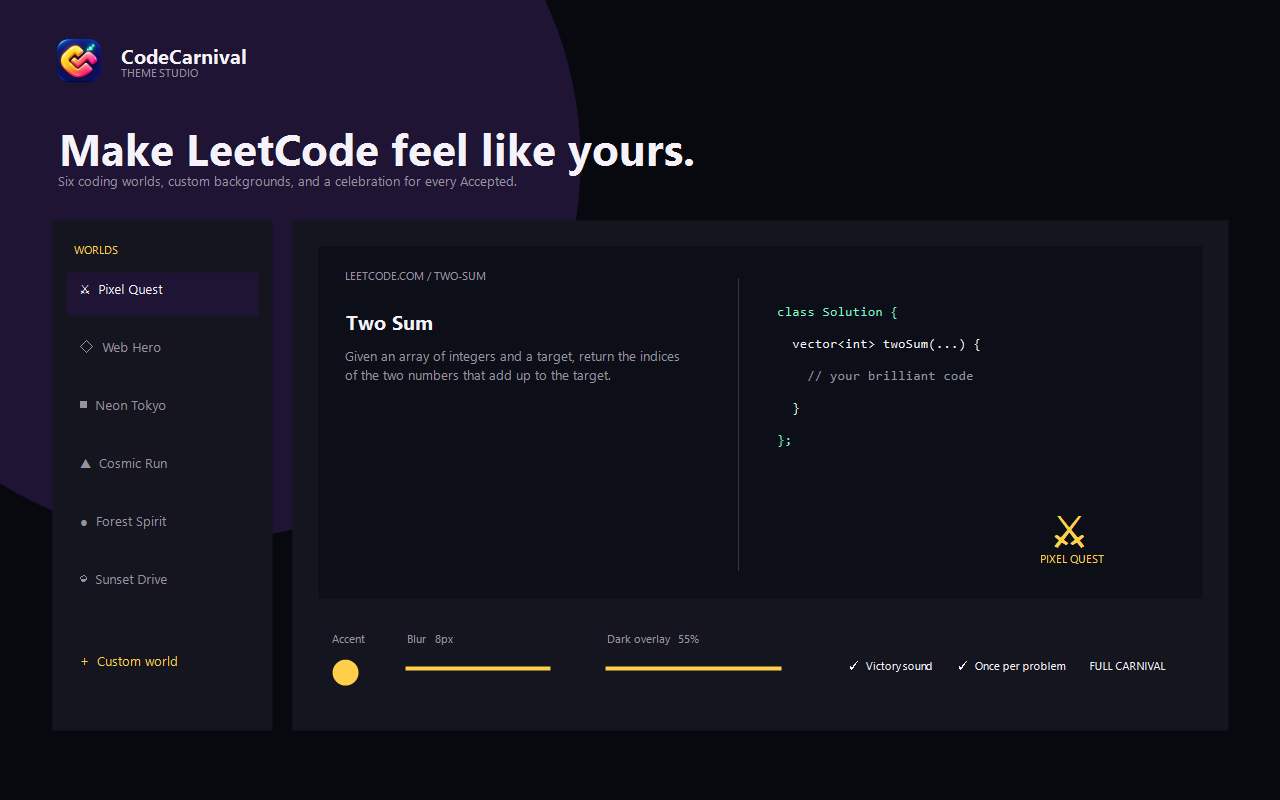
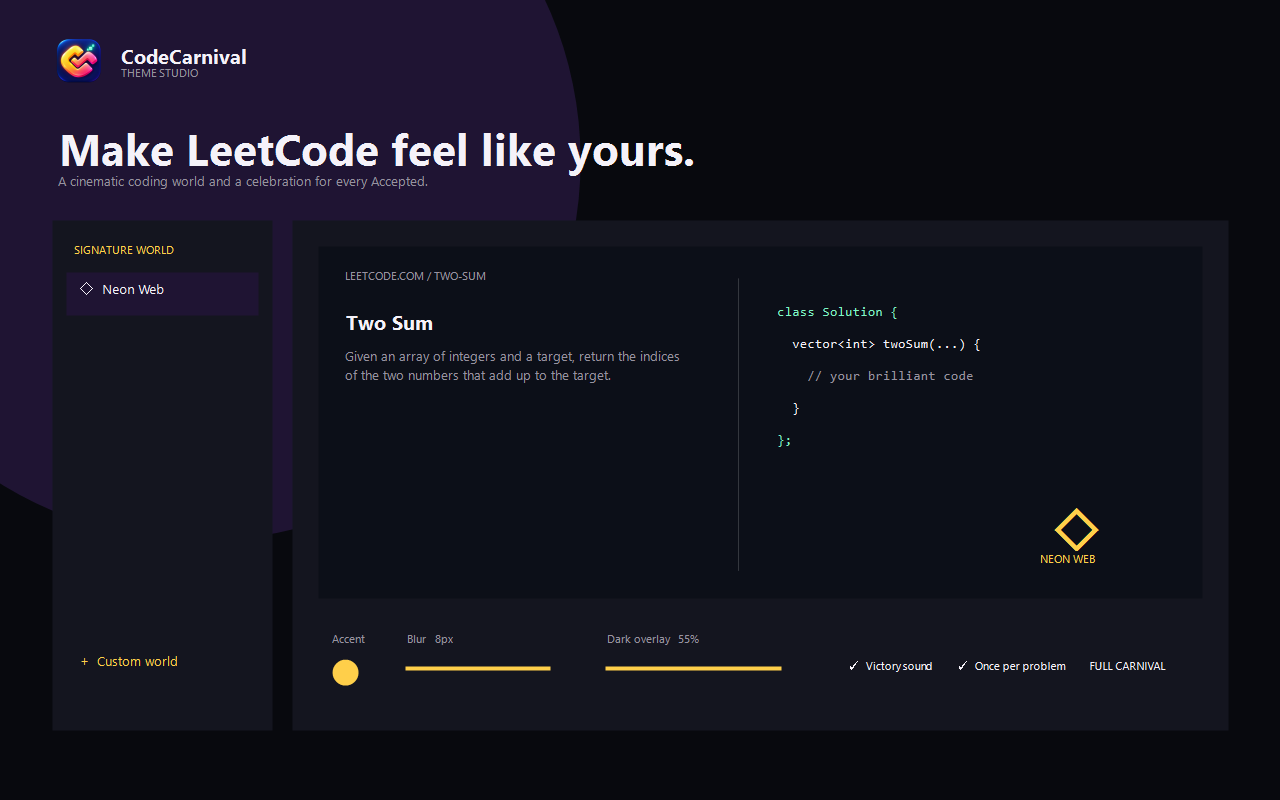
fix: rebuild themes around Neon Web glass engine

diff --git a/extension/content.css b/extension/content.css
@@ -1,36 +1,42 @@
 :root {
-  --cc-accent: #ffcf4a;
-  --cc-accent-2: #7cf7c5;
-  --cc-surface: rgba(14, 12, 28, .76);
-  --cc-border: rgba(255, 255, 255, .12);
-  --cc-blur: 8px;
-  --cc-overlay: .55;
+  --cc-accent: #ff304f;
+  --cc-accent-2: #29b6ff;
+  --cc-surface: rgba(4, 9, 20, .64);
+  --cc-border: rgba(77, 184, 255, .2);
+  --cc-blur: 2px;
+  --cc-overlay: .42;
 }
 
-html.cc-enabled.cc-problem-page body { background: #080811 !important; }
-html.cc-enabled.cc-problem-page body::before {
-  content: "";
+html.cc-enabled.cc-problem-page body { background: #030711 !important; }
+#cc-backdrop {
   position: fixed;
-  z-index: -2;
+  z-index: 0;
   inset: 0;
-  background-image: var(--cc-background), radial-gradient(circle at 15% 10%, var(--cc-accent), transparent 35%), linear-gradient(135deg, #111427, #080811 65%);
+  display: none;
+  overflow: hidden;
+  pointer-events: none;
+  background-image: var(--cc-background);
   background-position: center;
   background-size: cover;
   filter: blur(var(--cc-blur));
   transform: scale(1.04);
 }
-html.cc-enabled.cc-problem-page body::after {
+#cc-backdrop::after {
   content: "";
-  position: fixed;
-  z-index: -1;
+  position: absolute;
   inset: 0;
-  pointer-events: none;
-  background: rgba(4, 5, 11, var(--cc-overlay));
+  background: linear-gradient(90deg, rgba(2, 5, 14, calc(var(--cc-overlay) + .18)), rgba(3, 7, 17, var(--cc-overlay)) 58%, rgba(1, 4, 12, calc(var(--cc-overlay) - .1)));
 }
+html.cc-enabled.cc-problem-page #cc-backdrop { display: block; }
+html.cc-enabled.cc-problem-page body > div:not(#cc-backdrop) { position: relative; z-index: 1; background-color: transparent !important; }
 html.cc-enabled.cc-problem-page [data-layout-path],
 html.cc-enabled.cc-problem-page [class*="bg-layer"],
 html.cc-enabled.cc-problem-page [class*="bg-fill"],
-html.cc-enabled.cc-problem-page [class*="bg-base"] { background-color: transparent !important; }
+html.cc-enabled.cc-problem-page [class*="bg-base"],
+html.cc-enabled.cc-problem-page .flexlayout__layout,
+html.cc-enabled.cc-problem-page .flexlayout__tabset,
+html.cc-enabled.cc-problem-page .flexlayout__tab,
+html.cc-enabled.cc-problem-page #qd-content { background-color: transparent !important; }
 html.cc-enabled.cc-problem-page [class*="rounded"],
 html.cc-enabled.cc-problem-page [class*="editor-container"] {
   border-color: var(--cc-border) !important;
@@ -38,9 +44,18 @@ html.cc-enabled.cc-problem-page [class*="editor-container"] {
 html.cc-enabled.cc-problem-page nav,
 html.cc-enabled.cc-problem-page header,
 html.cc-enabled.cc-problem-page [data-layout-path],
+html.cc-enabled.cc-problem-page .flexlayout__tabset,
 html.cc-enabled.cc-problem-page [class*="editor-container"] {
-  backdrop-filter: blur(14px);
+  background-color: var(--cc-surface) !important;
+  box-shadow: inset 0 0 0 1px var(--cc-border), 0 18px 50px rgba(0, 0, 0, .24);
+  backdrop-filter: blur(16px) saturate(125%);
 }
+html.cc-enabled.cc-problem-page .monaco-editor,
+html.cc-enabled.cc-problem-page .monaco-editor-background,
+html.cc-enabled.cc-problem-page .monaco-editor .margin { background-color: rgba(5, 9, 18, .72) !important; }
+html.cc-enabled.cc-problem-page [class*="split-view-view"] { background-color: transparent !important; }
+html.cc-enabled.cc-problem-page button[class*="bg-green"],
+html.cc-enabled.cc-problem-page [data-e2e-locator="console-submit-button"] { box-shadow: 0 0 22px color-mix(in srgb, var(--cc-accent-2) 55%, transparent); }
 
 #cc-celebration {
   position: fixed;
@@ -66,15 +81,14 @@ html.cc-enabled.cc-problem-page [class*="editor-container"] {
 .cc-web-line { position: absolute; width: 2px; height: 65vh; top: -20vh; background: linear-gradient(white, transparent); transform-origin: top; animation: cc-swing 2s ease-in-out infinite alternate; }
 .cc-effect-layer { position: absolute; inset: 0; overflow: hidden; pointer-events: none; }
 .cc-web-spoke { position: absolute; left: 50%; top: 50%; width: 1px; height: 150vmax; background: linear-gradient(transparent, #ffffff30, transparent); transform: translate(-50%, -50%) rotate(var(--turn)); }
-.cc-hero-swing { position: absolute; left: 50%; top: 8%; font-size: 48px; transform-origin: 50% -280px; animation: cc-hero-swing 2s cubic-bezier(.4,0,.2,1) infinite alternate; }
-.cc-pixel { position: absolute; left: var(--x); top: var(--y); width: 12px; height: 12px; background: var(--cc-accent); box-shadow: 12px 0 var(--cc-accent-2), 0 12px var(--cc-accent-2); animation: cc-pixel-pop 1.2s steps(4) var(--delay) infinite; }
-.cc-neon-grid { position: absolute; left: -20%; right: -20%; bottom: -45%; height: 80%; background-image: linear-gradient(#62f4ff55 1px, transparent 1px), linear-gradient(90deg, #62f4ff55 1px, transparent 1px); background-size: 60px 40px; transform: perspective(400px) rotateX(62deg); transform-origin: top; animation: cc-grid 1.4s linear infinite; }
-.cc-scanline { position: absolute; inset: -100% 0 auto; height: 30%; background: linear-gradient(transparent, #ff4fd833, transparent); animation: cc-scan 2.1s linear infinite; }
-.cc-star { position: absolute; left: var(--x); top: var(--y); width: 3px; height: 3px; border-radius: 50%; background: white; box-shadow: 0 0 10px 3px #48e5ff; animation: cc-twinkle .8s ease-in-out var(--delay) infinite alternate; }
-.cc-rocket-trail { position: absolute; left: -15%; bottom: 5%; font-size: 58px; filter: drop-shadow(-30px 30px 14px #48e5ff); animation: cc-launch 3.5s ease-in forwards; }
-.cc-leaf { position: absolute; left: var(--x); top: -10%; font-size: 27px; animation: cc-leaf-fall 3s ease-in var(--delay) infinite; }
-.cc-sun { position: absolute; left: 50%; top: 20%; width: 210px; height: 210px; margin-left: -105px; border-radius: 50%; background: linear-gradient(#ffd56b, #ff7b54); box-shadow: 0 0 90px #ff7b5488; animation: cc-sun-rise 1.4s ease-out both; }
-.cc-road { position: absolute; left: 50%; bottom: -20%; width: 24%; height: 70%; background: linear-gradient(90deg, transparent 48%, #ffd56b 48% 52%, transparent 52%), linear-gradient(#ffffff10, #ffffff02); clip-path: polygon(45% 0, 55% 0, 100% 100%, 0 100%); }
+.cc-web-dancer { position: absolute; left: 14%; bottom: 14%; width: 92px; height: 165px; filter: drop-shadow(0 0 24px #29b6ff99); animation: cc-dance-body .72s ease-in-out infinite alternate; }
+.cc-web-dancer i { position: absolute; display: block; }
+.cc-dancer-head { left: 27px; top: 0; width: 40px; height: 45px; border: 3px solid #29b6ff; border-radius: 48% 48% 42% 42%; background: linear-gradient(135deg, #ff304f, #8c102a); box-shadow: inset 0 0 0 5px #09142b; }
+.cc-dancer-head::before, .cc-dancer-head::after { content: ""; position: absolute; top: 13px; width: 9px; height: 14px; border-radius: 70% 20%; background: white; box-shadow: 0 0 9px #29b6ff; }.cc-dancer-head::before { left: 7px; transform: rotate(16deg); }.cc-dancer-head::after { right: 7px; transform: rotate(-16deg) scaleX(-1); }
+.cc-dancer-body { left: 23px; top: 42px; width: 48px; height: 65px; clip-path: polygon(18% 0, 82% 0, 100% 78%, 70% 100%, 30% 100%, 0 78%); background: linear-gradient(100deg, #0b2d68 0 30%, #ff304f 32% 68%, #0b2d68 70%); }
+.cc-dancer-arm, .cc-dancer-leg { width: 18px; border-radius: 12px; transform-origin: 9px 8px; background: linear-gradient(#ff304f, #123f88); }
+.cc-dancer-arm { top: 49px; height: 72px; }.cc-dancer-arm.left { left: 15px; animation: cc-arm-left .72s ease-in-out infinite alternate; }.cc-dancer-arm.right { right: 13px; animation: cc-arm-right .72s ease-in-out infinite alternate; }
+.cc-dancer-leg { top: 98px; height: 70px; }.cc-dancer-leg.left { left: 28px; animation: cc-leg-left .72s ease-in-out infinite alternate; }.cc-dancer-leg.right { right: 25px; animation: cc-leg-right .72s ease-in-out infinite alternate; }
 .cc-custom-glow { position: absolute; inset: 20%; border-radius: 50%; background: var(--cc-accent); filter: blur(100px); opacity: .22; animation: cc-custom-pulse 1.5s ease-in-out infinite alternate; }
 
 @keyframes cc-fade-in { from { opacity: 0; } }
@@ -84,14 +98,11 @@ html.cc-enabled.cc-problem-page [class*="editor-container"] {
 @keyframes cc-rain { to { transform: translate3d(var(--drift), 120vh, 0) rotate(900deg); } }
 @keyframes cc-ring { 0% { opacity: .8; transform: scale(.2); } 100% { opacity: 0; transform: scale(6); } }
 @keyframes cc-swing { from { transform: rotate(-32deg); } to { transform: rotate(32deg); } }
-@keyframes cc-hero-swing { from { transform: rotate(-42deg) rotate(-20deg); } to { transform: rotate(42deg) rotate(20deg); } }
-@keyframes cc-pixel-pop { 0%, 100% { opacity: .2; transform: scale(.5) rotate(0); } 50% { opacity: 1; transform: scale(1.3) rotate(90deg); } }
-@keyframes cc-grid { to { background-position: 0 40px; } }
-@keyframes cc-scan { to { transform: translateY(700%); } }
-@keyframes cc-twinkle { to { opacity: .25; transform: scale(.5); } }
-@keyframes cc-launch { from { transform: translate(0, 0) rotate(-35deg); } to { transform: translate(125vw, -105vh) rotate(-35deg); } }
-@keyframes cc-leaf-fall { to { transform: translate(80px, 115vh) rotate(540deg); } }
-@keyframes cc-sun-rise { from { transform: translateY(220px); opacity: 0; } }
+@keyframes cc-dance-body { from { transform: translateY(0) rotate(-7deg) scale(1); } to { transform: translateY(-18px) rotate(7deg) scale(1.05); } }
+@keyframes cc-arm-left { from { transform: rotate(52deg); } to { transform: rotate(145deg); } }
+@keyframes cc-arm-right { from { transform: rotate(-52deg); } to { transform: rotate(-145deg); } }
+@keyframes cc-leg-left { from { transform: rotate(18deg); } to { transform: rotate(48deg); } }
+@keyframes cc-leg-right { from { transform: rotate(-45deg); } to { transform: rotate(-12deg); } }
 @keyframes cc-custom-pulse { to { transform: scale(1.4); opacity: .35; } }
 
 @media (prefers-reduced-motion: reduce) {

diff --git a/extension/content.js b/extension/content.js
@@ -1,14 +1,9 @@
 const CC_THEMES = {
-  "web-hero": { emoji: "🕸", title: "MISSION COMPLETE", eyebrow: "Web Hero", note: "Another challenge caught in your web.", colors: ["#ef3340", "#42a5ff"], effect: "web" },
-  "pixel-quest": { emoji: "⚔", title: "STAGE CLEAR!", eyebrow: "Pixel Quest", note: "+100 XP · The next level awaits", colors: ["#ffcf4a", "#7cf7c5"], effect: "pixel" },
-  "neon-tokyo": { emoji: "🌃", title: "SYSTEM CLEARED", eyebrow: "Neon Tokyo", note: "Run complete. Skill level rising.", colors: ["#ff4fd8", "#62f4ff"], effect: "neon" },
-  "cosmic-run": { emoji: "🚀", title: "LIFTOFF!", eyebrow: "Cosmic Run", note: "Solution accepted. New orbit unlocked.", colors: ["#a675ff", "#48e5ff"], effect: "space" },
-  "forest-spirit": { emoji: "🍃", title: "QUEST COMPLETE", eyebrow: "Forest Spirit", note: "A calm mind finds the path.", colors: ["#80ed99", "#d8f3dc"], effect: "leaves" },
-  "sunset-drive": { emoji: "🌅", title: "SMOOTH SOLVE", eyebrow: "Sunset Drive", note: "Cruising into the next challenge.", colors: ["#ff7b54", "#ffd56b"], effect: "sunset" },
+  "neon-web": { emoji: "🕸", title: "CITY SAVED!", eyebrow: "Neon Web", note: "Another bug caught. Another mission complete.", colors: ["#ff304f", "#29b6ff"], effect: "web" },
   custom: { emoji: "✨", title: "YOU DID IT!", eyebrow: "Custom World", note: "Your code. Your world. Your victory.", colors: ["#f8c451", "#ff7b9c"], effect: "custom" }
 };
 
-const CC_DEFAULTS = { enabled: true, theme: "pixel-quest", accent: "#ffcf4a", blur: 8, overlay: 55, customBackground: "", sound: true, celebrateOnce: true, intensity: "full" };
+const CC_DEFAULTS = { enabled: true, theme: "neon-web", accent: "#ff304f", blur: 2, overlay: 42, customBackground: "", sound: true, celebrateOnce: true, intensity: "full" };
 let ccSettings = { ...CC_DEFAULTS };
 let lastAcceptedAt = 0;
 let acceptedVisible = false;
@@ -32,6 +27,10 @@ function isProblemPage() {
 }
 
 function applyTheme(settings) {
+  if (!CC_THEMES[settings.theme] && settings.theme !== "custom") {
+    settings = { ...settings, theme: "neon-web", accent: "#ff304f" };
+    chrome.storage.local.set(settings);
+  }
   ccSettings = settings;
   const root = document.documentElement;
   root.classList.toggle("cc-enabled", Boolean(settings.enabled));
@@ -41,19 +40,17 @@ function applyTheme(settings) {
   root.style.setProperty("--cc-accent-2", theme.colors[1]);
   root.style.setProperty("--cc-blur", `${settings.blur}px`);
   root.style.setProperty("--cc-overlay", String(settings.overlay / 100));
-  root.style.setProperty("--cc-background", settings.customBackground ? `url("${settings.customBackground}")` : defaultBackdrop(settings.theme));
+  const background = settings.customBackground || chrome.runtime.getURL("assets/neon-web-city.png");
+  root.style.setProperty("--cc-background", `url("${background}")`);
+  ensureBackdrop();
 }
 
-function defaultBackdrop(id) {
-  const patterns = {
-    "web-hero": "linear-gradient(125deg, #07142d 0%, #1e356b 42%, #7e1323 100%)",
-    "pixel-quest": "linear-gradient(135deg, #100d29 0%, #34205e 50%, #152f35 100%)",
-    "neon-tokyo": "linear-gradient(155deg, #090617 10%, #511359 55%, #052f47 100%)",
-    "cosmic-run": "radial-gradient(circle at 70% 20%, #553091 0%, #071426 42%, #02040b 100%)",
-    "forest-spirit": "linear-gradient(135deg, #06150e, #17472e 55%, #0e2620)",
-    "sunset-drive": "linear-gradient(160deg, #23113d, #8e335b 55%, #ff835e)"
-  };
-  return patterns[id] || patterns["pixel-quest"];
+function ensureBackdrop() {
+  if (document.querySelector("#cc-backdrop")) return;
+  const backdrop = document.createElement("div");
+  backdrop.id = "cc-backdrop";
+  backdrop.setAttribute("aria-hidden", "true");
+  document.documentElement.appendChild(backdrop);
 }
 
 function playVictorySound() {
@@ -129,21 +126,9 @@ function celebrate() {
 }
 
 function buildThemeEffect(host, effect) {
-  const count = ccSettings.intensity === "calm" ? 4 : 10;
   if (effect === "web") {
     for (let i = 0; i < 7; i++) host.insertAdjacentHTML("beforeend", `<i class="cc-web-spoke" style="--turn:${i * 25}deg"></i>`);
-    host.insertAdjacentHTML("beforeend", '<i class="cc-web-line"></i><b class="cc-hero-swing">🕷</b>');
-  } else if (effect === "pixel") {
-    for (let i = 0; i < count; i++) host.insertAdjacentHTML("beforeend", `<i class="cc-pixel" style="--x:${8 + Math.random() * 84}%;--y:${10 + Math.random() * 78}%;--delay:${Math.random()}s"></i>`);
-  } else if (effect === "neon") {
-    host.insertAdjacentHTML("beforeend", '<i class="cc-neon-grid"></i><i class="cc-scanline"></i>');
-  } else if (effect === "space") {
-    for (let i = 0; i < count * 2; i++) host.insertAdjacentHTML("beforeend", `<i class="cc-star" style="--x:${Math.random() * 100}%;--y:${Math.random() * 100}%;--delay:${Math.random() * 1.5}s"></i>`);
-    host.insertAdjacentHTML("beforeend", '<b class="cc-rocket-trail">🚀</b>');
-  } else if (effect === "leaves") {
-    for (let i = 0; i < count; i++) host.insertAdjacentHTML("beforeend", `<i class="cc-leaf" style="--x:${Math.random() * 100}%;--delay:${Math.random() * 2}s">🍃</i>`);
-  } else if (effect === "sunset") {
-    host.insertAdjacentHTML("beforeend", '<i class="cc-sun"></i><i class="cc-road"></i>');
+    host.insertAdjacentHTML("beforeend", '<i class="cc-web-line"></i><b class="cc-web-dancer"><i class="cc-dancer-head"></i><i class="cc-dancer-body"></i><i class="cc-dancer-arm left"></i><i class="cc-dancer-arm right"></i><i class="cc-dancer-leg left"></i><i class="cc-dancer-leg right"></i></b>');
   } else {
     host.insertAdjacentHTML("beforeend", '<i class="cc-custom-glow"></i>');
   }

diff --git a/website/styles.css b/website/styles.css
@@ -41,7 +41,7 @@ h1, h2, h3 { font-family: "Space Grotesk"; }
 .themes-section, .custom-section, .steps-section { padding: 100px 45px; border-top: 1px solid var(--line); }
 .section-heading { display: flex; justify-content: space-between; align-items: end; gap: 50px; }.section-heading h2, .custom-copy h2, .steps-section h2 { max-width: 650px; margin: 13px 0 0; font-size: clamp(35px, 4vw, 55px); line-height: 1.05; letter-spacing: -.045em; }.section-heading > p { max-width: 410px; color: var(--muted); font-size: 13px; line-height: 1.7; }
 .theme-stage { margin-top: 48px; padding: 15px; border: 1px solid #ffffff13; border-radius: 22px; background: #ffffff05; }
-.theme-tabs { display: grid; grid-template-columns: repeat(6, 1fr); gap: 6px; margin-bottom: 12px; }.theme-tabs button { padding: 12px 7px; color: #7d7985; border: 1px solid transparent; border-radius: 10px; background: transparent; cursor: pointer; font-size: 10px; }.theme-tabs i { display: block; margin-bottom: 6px; font-size: 19px; font-style: normal; }.theme-tabs button[aria-selected="true"] { color: white; border-color: #ffffff16; background: #ffffff0b; }
+.theme-tabs { display: grid; grid-template-columns: 1fr; gap: 6px; margin-bottom: 12px; }.theme-tabs button { padding: 12px 7px; color: #7d7985; border: 1px solid transparent; border-radius: 10px; background: transparent; cursor: pointer; font-size: 10px; }.theme-tabs i { display: inline-block; margin: 0 7px 0 0; font-size: 19px; font-style: normal; vertical-align: middle; }.theme-tabs button[aria-selected="true"] { color: white; border-color: #ffffff16; background: #ffffff0b; }
 .theme-preview { --primary: #ffcf4a; --secondary: #7cf7c5; --deep: #15102b; position: relative; overflow: hidden; display: grid; grid-template-columns: 1fr 1fr; align-items: center; min-height: 390px; padding: 45px; border-radius: 16px; background: radial-gradient(circle at 27% 50%, color-mix(in srgb, var(--primary) 19%, transparent), transparent 22%), linear-gradient(125deg, var(--deep), #090b12 74%); transition: background .4s; }
 .preview-art { position: relative; display: grid; place-items: center; min-height: 270px; }.preview-icon { z-index: 3; font-size: 110px; filter: drop-shadow(0 20px 25px #0009); animation: float 2.2s ease-in-out infinite; }.preview-rings i { position: absolute; inset: 50%; width: 120px; height: 120px; margin: -60px; border: 1px solid var(--primary); border-radius: 50%; animation: pulse 2.5s ease-out infinite; }.preview-rings i:nth-child(2) { animation-delay: .7s; }.preview-rings i:nth-child(3) { animation-delay: 1.4s; }.preview-copy span { color: var(--secondary); font-size: 10px; font-weight: 800; letter-spacing: .4em; }.preview-copy h3 { margin: 10px 0 4px; color: var(--primary); font-size: clamp(42px, 5vw, 74px); letter-spacing: -.055em; text-shadow: 0 0 30px color-mix(in srgb, var(--primary) 35%, transparent); }.preview-copy p { color: #aaa7b2; font-size: 12px; }.preview-copy button { margin-top: 28px; padding: 11px 15px; color: white; border: 1px solid #ffffff20; border-radius: 10px; background: #ffffff08; cursor: pointer; font-size: 10px; }.preview-copy button b { margin-left: 8px; color: var(--primary); }
 .custom-section { display: grid; grid-template-columns: 1fr 1fr; align-items: center; gap: 100px; background: radial-gradient(circle at 80% 50%, #73344d20, transparent 30%); }.custom-copy p { max-width: 510px; margin: 20px 0 35px; color: var(--muted); line-height: 1.7; }.custom-copy ul { list-style: none; margin: 0; padding: 0; }.custom-copy li { display: flex; gap: 16px; align-items: center; padding: 13px 0; color: #dad7df; border-bottom: 1px solid #ffffff0d; font-size: 12px; }.custom-copy li span { color: #d6aa68; font: 10px "Space Grotesk"; }

diff --git a/website/index.html b/website/index.html
@@ -52,18 +52,18 @@
 };</code></pre><button>Submit</button></div>
             </div>
           </div>
-          <div class="floating-badge badge-one">⚔ <span><b>Pixel Quest</b>Active theme</span></div>
+          <div class="floating-badge badge-one">🕸 <span><b>Neon Web</b>Signature theme</span></div>
           <div class="floating-badge badge-two">✨ <span><b>+100 XP</b>Solve streak</span></div>
         </div>
       </section>
 
       <section id="themes" class="themes-section">
-        <div class="section-heading"><div><span class="kicker">CHOOSE YOUR WORLD</span><h2>A fresh universe for every mood.</h2></div><p>Each world transforms your workspace and brings its own victory animation. Switch anytime—your code stays untouched.</p></div>
+        <div class="section-heading"><div><span class="kicker">SIGNATURE WORLD</span><h2>One theme. Obsessively crafted.</h2></div><p>Neon Web rebuilds the whole workspace with cinematic city depth, real glass panels, sharp red-blue accents, and its own dancing victory sequence.</p></div>
         <div class="theme-stage">
           <div class="theme-tabs" role="tablist"></div>
           <div class="theme-preview">
-            <div class="preview-art"><div class="preview-icon">⚔</div><div class="preview-rings"><i></i><i></i><i></i></div></div>
-            <div class="preview-copy"><span>PIXEL QUEST</span><h3>STAGE CLEAR!</h3><p>+100 XP · The next level awaits</p><button id="theme-demo">Play celebration <b>▶</b></button></div>
+            <div class="preview-art"><div class="preview-icon">🕸</div><div class="preview-rings"><i></i><i></i><i></i></div></div>
+            <div class="preview-copy"><span>NEON WEB</span><h3>CITY SAVED!</h3><p>Another bug caught · Mission complete</p><button id="theme-demo">Play celebration <b>▶</b></button></div>
           </div>
         </div>
       </section>
@@ -83,7 +83,7 @@
       </section>
 
       <section id="install" class="install-section">
-        <div class="install-copy"><span class="release-pill"><i></i> PUBLIC BETA · V0.5.0</span><h2>Your next Accepted will feel different.</h2><p>Download the beta, load it once in Chrome, and CodeCarnival will be ready whenever you open a LeetCode problem.</p><div class="install-actions"><a class="button primary" href="https://github.com/vikashkumar302004/CodeCarnival/releases/latest/download/codecarnival-extension.zip">Download for Chrome <span>↓</span></a><a class="button ghost" href="https://github.com/vikashkumar302004/CodeCarnival" target="_blank" rel="noreferrer">View source ↗</a></div><small>Manifest V3 · No account · Settings stay in your browser</small></div>
+        <div class="install-copy"><span class="release-pill"><i></i> SIGNATURE RELEASE · V1.1.0</span><h2>Your next Accepted will feel different.</h2><p>Download CodeCarnival, load it once in Chrome, and Neon Web will be ready whenever you open a LeetCode problem.</p><div class="install-actions"><a class="button primary" href="https://github.com/vikashkumar302004/CodeCarnival/releases/latest/download/codecarnival-extension.zip">Download for Chrome <span>↓</span></a><a class="button ghost" href="https://github.com/vikashkumar302004/CodeCarnival" target="_blank" rel="noreferrer">View source ↗</a></div><small>Manifest V3 · No account · Settings stay in your browser</small></div>
         <div class="install-guide">
           <div class="guide-head"><span>QUICK INSTALL</span><b>About 60 seconds</b></div>
           <ol>

diff --git a/extension/popup.css b/extension/popup.css
@@ -18,12 +18,12 @@ section { margin-top: 19px; }
 .section-title { display: flex; justify-content: space-between; align-items: center; margin-bottom: 11px; }
 h2 { font: 600 13px ui-rounded, system-ui, sans-serif; }
 .section-title span, .text-button { color: #85838f; font-size: 10px; }
-.theme-grid { display: grid; grid-template-columns: repeat(3, 1fr); gap: 8px; }
-.theme-card { position: relative; overflow: hidden; min-height: 82px; padding: 9px; text-align: left; color: white; border: 1px solid #ffffff12; border-radius: 13px; background: linear-gradient(145deg, var(--c1), var(--c2)); cursor: pointer; transition: transform .18s, border-color .18s; }
+.theme-grid { display: grid; grid-template-columns: 1fr; gap: 8px; }
+.theme-card { position: relative; overflow: hidden; min-height: 76px; padding: 13px; text-align: left; color: white; border: 1px solid #ffffff12; border-radius: 13px; background: linear-gradient(110deg, var(--c1), var(--c2)88, var(--c3)33); cursor: pointer; transition: transform .18s, border-color .18s; }
 .theme-card:hover { transform: translateY(-2px); }
 .theme-card.active { border-color: var(--c3); box-shadow: 0 0 0 1px var(--c3), 0 10px 28px #0008; }
-.theme-card .emoji { display: block; font-size: 22px; margin-bottom: 9px; filter: drop-shadow(0 3px 5px #0008); }
-.theme-card strong { display: block; font-size: 11px; }
+.theme-card .emoji { float: left; margin: 3px 13px 10px 0; font-size: 30px; filter: drop-shadow(0 3px 5px #0008); }
+.theme-card strong { display: block; margin-top: 7px; font-size: 12px; }
 .theme-card small { display: block; margin-top: 2px; color: #ffffffa8; font-size: 8px; }
 .customizer { padding: 13px; border: 1px solid #ffffff10; border-radius: 15px; background: #ffffff06; }
 .customizer .section-title { margin-bottom: 9px; }

diff --git a/extension/themes.js b/extension/themes.js
@@ -1,18 +1,13 @@
 const CODE_CARNIVAL_THEMES = [
-  { id: "web-hero", name: "Web Hero", emoji: "🕸", tagline: "Swing into victory", colors: ["#0b1023", "#ef3340", "#42a5ff"], celebration: "MISSION COMPLETE" },
-  { id: "pixel-quest", name: "Pixel Quest", emoji: "⚔", tagline: "A new stage awaits", colors: ["#15102b", "#ffcf4a", "#7cf7c5"], celebration: "STAGE CLEAR!" },
-  { id: "neon-tokyo", name: "Neon Tokyo", emoji: "🌃", tagline: "Code after midnight", colors: ["#110720", "#ff4fd8", "#62f4ff"], celebration: "SYSTEM CLEARED" },
-  { id: "cosmic-run", name: "Cosmic Run", emoji: "🚀", tagline: "Launch beyond limits", colors: ["#071426", "#a675ff", "#48e5ff"], celebration: "LIFTOFF!" },
-  { id: "forest-spirit", name: "Forest Spirit", emoji: "🍃", tagline: "Focus in the wild", colors: ["#081c15", "#80ed99", "#d8f3dc"], celebration: "QUEST COMPLETE" },
-  { id: "sunset-drive", name: "Sunset Drive", emoji: "🌅", tagline: "Cruise through problems", colors: ["#28143d", "#ff7b54", "#ffd56b"], celebration: "SMOOTH SOLVE" }
+  { id: "neon-web", name: "Neon Web", emoji: "🕸", tagline: "Own the night", colors: ["#050b18", "#ff304f", "#29b6ff"], celebration: "CITY SAVED!" }
 ];
 
 const CODE_CARNIVAL_DEFAULTS = {
   enabled: true,
-  theme: "pixel-quest",
-  accent: "#ffcf4a",
-  blur: 8,
-  overlay: 55,
+  theme: "neon-web",
+  accent: "#ff304f",
+  blur: 2,
+  overlay: 42,
   customBackground: "",
   sound: true,
   celebrateOnce: true,

diff --git a/extension/studio.js b/extension/studio.js
@@ -48,6 +48,10 @@ async function save(patch, message = "Theme saved") {
 }
 
 chrome.storage.local.get(CODE_CARNIVAL_DEFAULTS, (stored) => {
+  if (!CODE_CARNIVAL_THEMES.some(({ id }) => id === stored.theme) && stored.theme !== "custom") {
+    stored = { ...stored, theme: "neon-web", accent: "#ff304f" };
+    chrome.storage.local.set(stored);
+  }
   settings = stored;
   $("#enabled").checked = settings.enabled;
   $("#accent").value = settings.accent;
@@ -77,7 +81,7 @@ $("#background-file").addEventListener("change", (event) => {
   reader.readAsDataURL(file);
 });
 
-$("#remove-image").addEventListener("click", () => save({ customBackground: "", theme: "pixel-quest" }, "Custom image removed"));
+$("#remove-image").addEventListener("click", () => save({ customBackground: "", theme: "neon-web", accent: "#ff304f" }, "Custom image removed"));
 $("#reset").addEventListener("click", async () => {
   await chrome.storage.local.clear();
   settings = { ...CODE_CARNIVAL_DEFAULTS };
@@ -100,4 +104,3 @@ $("#preview-celebration").addEventListener("click", async () => {
   if (!tab?.id || !tab.url?.includes("leetcode.com")) return showToast("Open a LeetCode problem first");
   chrome.tabs.sendMessage(tab.id, { type: "CODE_CARNIVAL_PREVIEW" });
 });
-

diff --git a/website/app.js b/website/app.js
@@ -1,10 +1,5 @@
 const themes = [
-  { id: "pixel", name: "Pixel Quest", icon: "⚔", title: "STAGE CLEAR!", note: "+100 XP · The next level awaits", colors: ["#ffcf4a", "#7cf7c5", "#15102b"] },
-  { id: "web", name: "Web Hero", icon: "🕸", title: "MISSION COMPLETE", note: "Another challenge caught in your web", colors: ["#ef5360", "#55b5ff", "#07142d"] },
-  { id: "neon", name: "Neon Tokyo", icon: "🌃", title: "SYSTEM CLEARED", note: "Run complete · Skill level rising", colors: ["#ff4fd8", "#62f4ff", "#110720"] },
-  { id: "space", name: "Cosmic Run", icon: "🚀", title: "LIFTOFF!", note: "Solution accepted · New orbit unlocked", colors: ["#b38aff", "#48e5ff", "#071426"] },
-  { id: "forest", name: "Forest Spirit", icon: "🍃", title: "QUEST COMPLETE", note: "A calm mind finds the path", colors: ["#80ed99", "#d8f3dc", "#081c15"] },
-  { id: "sunset", name: "Sunset Drive", icon: "🌅", title: "SMOOTH SOLVE", note: "Cruising into the next challenge", colors: ["#ff7b54", "#ffd56b", "#28143d"] }
+  { id: "neon-web", name: "Neon Web", icon: "🕸", title: "CITY SAVED!", note: "Another bug caught · Mission complete", colors: ["#ff304f", "#29b6ff", "#050b18"] }
 ];
 
 const tabs = document.querySelector(".theme-tabs");

diff --git a/extension/studio.html b/extension/studio.html
@@ -21,7 +21,7 @@
 
       <section class="workspace">
         <aside>
-          <div class="aside-title"><h2>Worlds</h2><span>6</span></div>
+          <div class="aside-title"><h2>Signature world</h2><span>1</span></div>
           <div id="theme-list" class="theme-list"></div>
           <button id="custom-theme" class="custom-theme"><span>＋</span><div><b>Custom world</b><small>Use your own picture</small></div></button>
         </aside>
@@ -39,7 +39,7 @@
     }
 };</pre>
               </div>
-              <div class="preview-label"><span id="preview-emoji">⚔</span><div><b id="preview-name">Pixel Quest</b><small>Live preview</small></div></div>
+              <div class="preview-label"><span id="preview-emoji">🕸</span><div><b id="preview-name">Neon Web</b><small>Live preview</small></div></div>
             </div>
           </div>
 

diff --git a/extension/popup.js b/extension/popup.js
@@ -22,6 +22,10 @@ async function save(patch) {
 }
 
 chrome.storage.local.get(CODE_CARNIVAL_DEFAULTS, (stored) => {
+  if (!CODE_CARNIVAL_THEMES.some(({ id }) => id === stored.theme) && stored.theme !== "custom") {
+    stored = { ...stored, theme: "neon-web", accent: "#ff304f" };
+    chrome.storage.local.set(stored);
+  }
   settings = stored;
   $("#enabled").checked = settings.enabled;
   $("#accent").value = settings.accent;

diff --git a/extension/popup.html b/extension/popup.html
@@ -19,7 +19,7 @@
       <div id="connection" class="connection"><i></i><span>Checking LeetCode page…</span></div>
 
       <section>
-        <div class="section-title"><h2>Choose your world</h2><span id="theme-count">6 themes</span></div>
+        <div class="section-title"><h2>Your world</h2><span id="theme-count">Signature theme</span></div>
         <div id="theme-grid" class="theme-grid"></div>
       </section>
 

diff --git a/STORE_LISTING.md b/STORE_LISTING.md
@@ -10,7 +10,7 @@
 
 **Language:** English
 
-**Version:** 1.0.0
+**Version:** 1.1.0
 
 ## Detailed description
 
@@ -20,8 +20,8 @@ CodeCarnival transforms LeetCode into a personal coding world. Choose a polished
 
 Features:
 
-- Six built-in coding worlds
-- A unique Accepted celebration for every theme
+- A cinematic Neon Web coding world
+- A matching animated Accepted celebration with a dancing web hero
 - Custom image and GIF backgrounds
 - Accent, blur, and dark-overlay controls
 - Full Theme Studio with a live preview
@@ -86,4 +86,3 @@ Required to apply themes to LeetCode problem pages and detect the visible Accept
 - [ ] Developer account registration and fee — account owner action
 - [ ] Account 2-Step Verification — account owner action
 - [ ] Upload ZIP and submit for review — account owner action
-
